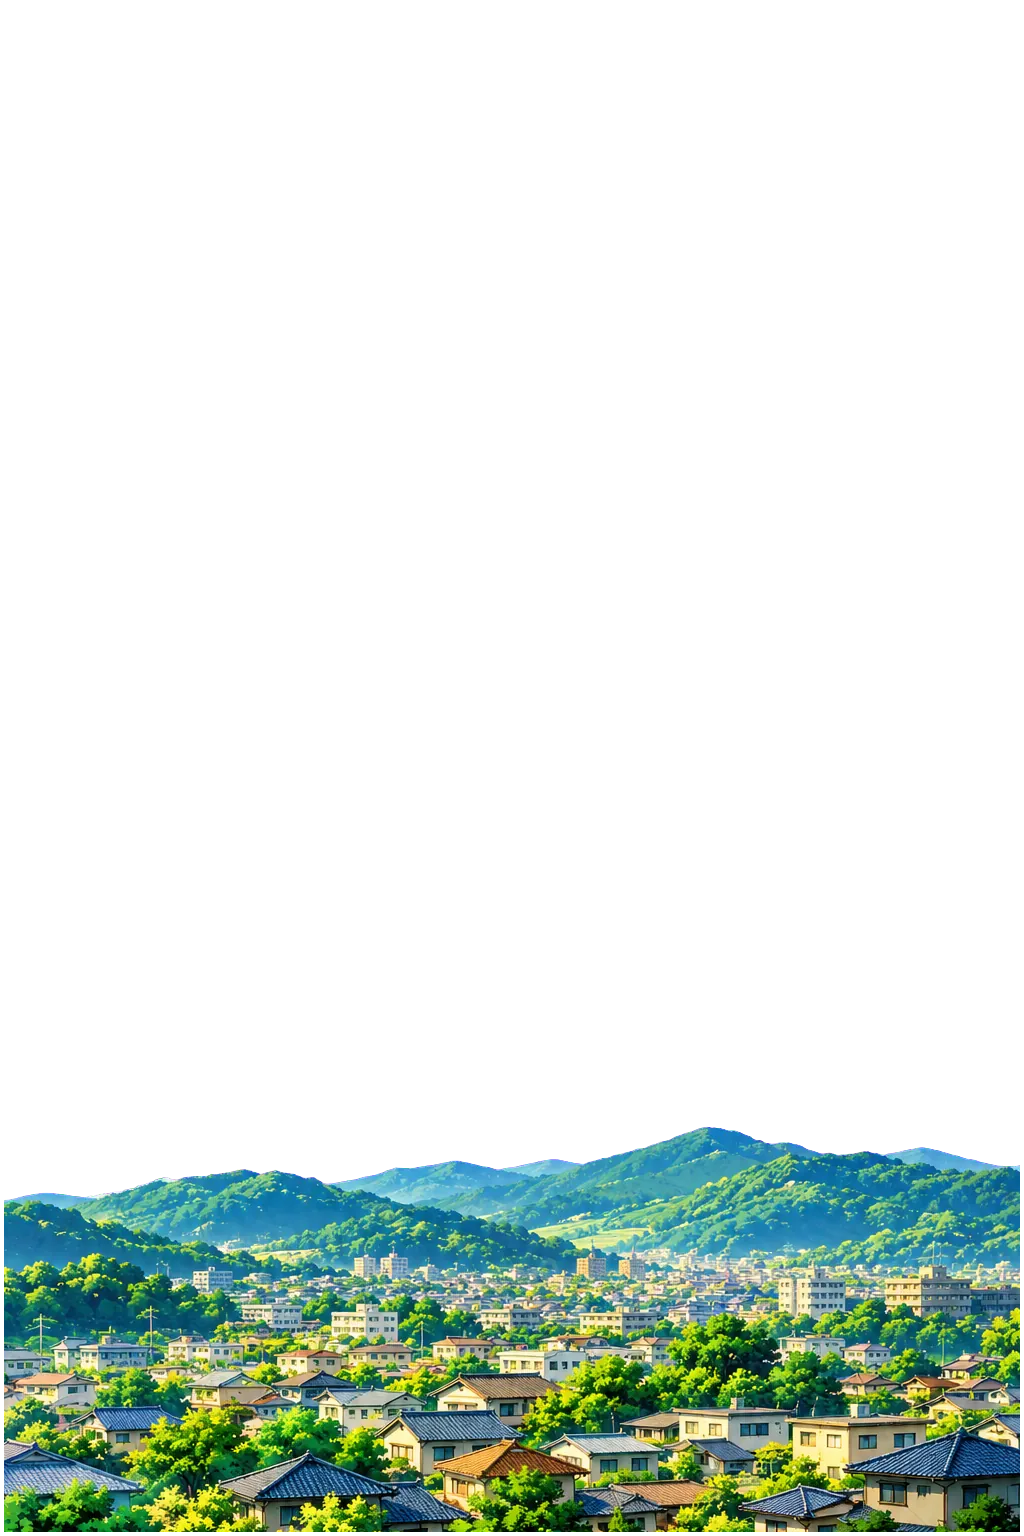
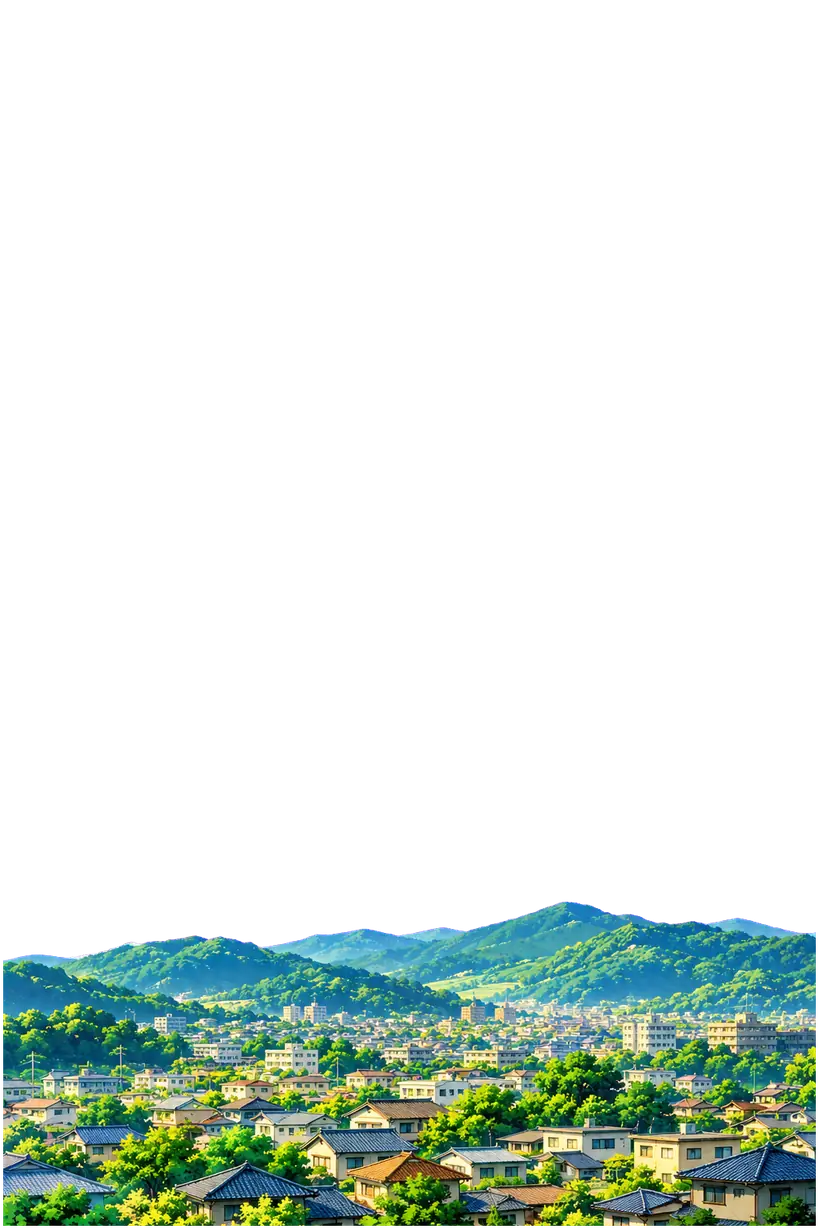
One Day: every painting in, the full day plays
All 23 paintings generated through Codex and cut in (~3 MB, 80% size):
spring hill, the train, the summer crossing and storm, golden hour by the
river, dusk town and stairway (lights on by tap and by themselves), the
winter night. Dusk and gold are pushed by cached tints; transitions render
at half resolution (worst frame 80 ms → 34 ms in headless). Docs: HANDOFF.

Claude-Session: https://claude.ai/code/session_013Z4tQkp6wMurnhSGRFwEf7

diff --git a/src/day/day.ts b/src/day/day.ts
@@ -69,10 +69,39 @@ function buffer(i: number, w: number, h: number, dpr: number) {
 }
 /** draw a scene into a buffer and return it */
 function render(g: G, i: number, scene: Scene, p: number) {
-  const dpr = Math.abs(g.ctx.getTransform().a) || 1;
+  // transitions are on screen for a moment and moving: half resolution is plenty
+  const dpr = 1;
   const b = buffer(i, g.w, g.h, dpr);
   scene({ ...g, ctx: b.g }, p);
   return b.c;
+}
+
+const tints = new Map<string, HTMLCanvasElement>();
+/** a painting pushed toward the hour, tinted once (only its own pixels) and cached */
+function tintedImg(name: string, col: string, a: number): HTMLCanvasElement | null {
+  const key = `${name}|${col}|${a}`;
+  const have = tints.get(key);
+  if (have) return have;
+  const im = img(name);
+  if (!im) return null;
+  const c = document.createElement('canvas');
+  c.width = im.naturalWidth;
+  c.height = im.naturalHeight;
+  const g = c.getContext('2d')!;
+  g.drawImage(im, 0, 0);
+  g.globalCompositeOperation = 'source-atop';
+  g.globalAlpha = a;
+  g.fillStyle = col;
+  g.fillRect(0, 0, c.width, c.height);
+  tints.set(key, c);
+  return c;
+}
+/** draw a cached tinted painting like layer() would */
+function tinted(g: G, name: string, cam: Cam, o: Parameters<typeof layer>[5], col: string, a: number) {
+  const pl = placeOf(g.w, g.h, cam, o);
+  const c = tintedImg(name, col, a);
+  if (c) g.ctx.drawImage(c, pl.x, pl.y, pl.dw, pl.dh);
+  return pl;
 }
 
 /* ================================================================ scenes */
@@ -223,10 +252,11 @@ function golden(g: G, p: number) {
   rays(ctx, sun[0], sun[1], S * 1.7, -Math.PI / 2, 2.6, 0.8, t, '255,200,140');
   flare(ctx, sun[0], sun[1], S * 0.07, 1, w, h, t);
   layer(ctx, w, h, '12_golden_far', cam, { depth: 0.3 });
-  const river = layer(ctx, w, h, '13_golden_river', cam, { depth: 0.6 });
-  const [gx0, gy0] = river.at(0.25, 0.72), [gx1, gy1] = river.at(0.78, 0.9);
+  // the river was painted in daylight: pushed to gold
+  const river = tinted(g, '13_golden_river', cam, { depth: 0.6 }, '#ff8a2a', 0.28);
+  const [gx0, gy0] = river.at(0.3, 0.56), [gx1, gy1] = river.at(0.62, 0.92);
   glitter(ctx, gx0, gy0, gx1, gy1, t, 1);
-  const maple = layer(ctx, w, h, '14_golden_maple', cam, { depth: 1 });
+  const maple = layer(ctx, w, h, '14_golden_maple', cam, { depth: 1, zoom: 0.8, ox: 0, oy: 0 });
   const fg = liveFinger(t);
   if (hash(Math.floor(t * 5) + 3) > 0.72) leaves.burst(...maple.at(0.1 + hash(t) * 0.3, 0.05 + hash(t * 3) * 0.2), S * 0.2, S * 0.05, 1);
   if (fg && Math.hypot(fg.vx, fg.vy) > S * 0.5) leaves.burst(fg.x, fg.y, fg.vx * 0.4, fg.vy * 0.4, 2);
@@ -252,11 +282,11 @@ function dusk(g: G, p: number) {
     drawSprite(ctx, glow('#fff6e0', 32), hash(i * 2.3) * w, hash(i * 5.1) * h * 0.4, S * 0.012);
   }
   ctx.restore();
-  const town = layer(ctx, w, h, '16_town_off', cam, { depth: 0.4 });
+  // the paintings came out sunlit: dusk pushes them blue-violet
+  const town = tinted(g, '16_town_off', cam, { depth: 0.4 }, '#2b2160', 0.55);
   // the lights coming on: the lit painting, cut to circles that open by themselves and where you tap
-  const dpr = Math.abs(ctx.getTransform().a) || 1;
-  const b = buffer(3, w, h, dpr);
-  layer(b.g, w, h, '17_town_on', cam, { depth: 0.4 });
+  const b = buffer(3, w, h, 1);
+  { const pl = placeOf(w, h, cam, { depth: 0.4 }); const c = tintedImg('17_town_on', '#2b2160', 0.35); if (c) b.g.drawImage(c, pl.x, pl.y, pl.dw, pl.dh); }
   b.g.globalCompositeOperation = 'destination-in';
   b.g.fillStyle = '#000';
   b.g.beginPath();
@@ -275,15 +305,17 @@ function dusk(g: G, p: number) {
   }
   if (p > 0.85) b.g.rect(0, 0, w, h * ease.in2(seg(p, 0.85, 1)) * 2);
   b.g.fill();
-  ctx.save();
-  ctx.setTransform(1, 0, 0, 1, 0, 0);
-  ctx.drawImage(b.c, 0, 0);
-  ctx.restore();
+  ctx.drawImage(b.c, 0, 0, w, h);
   // the stairway: its lamps flicker on halfway through
   const lampOn = seg(p, 0.42, 0.5);
   const flick = lampOn > 0 && lampOn < 1 ? (hash(Math.floor(t * 20)) > 0.5 ? 1 : 0.2) : lampOn;
-  const st = layer(ctx, w, h, '18_stairs_off', cam, { depth: 0.75 });
-  layer(ctx, w, h, '19_stairs_on', cam, { depth: 0.75, alpha: flick });
+  const st = tinted(g, '18_stairs_off', cam, { depth: 0.75 }, '#2b2160', 0.5);
+  if (flick > 0) {
+    ctx.save();
+    ctx.globalAlpha = flick;
+    tinted(g, '19_stairs_on', cam, { depth: 0.75 }, '#2b2160', 0.3);
+    ctx.restore();
+  }
   if (flick > 0.5) {
     ctx.save();
     ctx.globalCompositeOperation = 'lighter';
@@ -506,8 +538,5 @@ function maskBleed(ctx: CanvasRenderingContext2D, c: HTMLCanvasElement, w: numbe
   g.setTransform(1, 0, 0, 1, 0, 0);
   g.drawImage(m.c, 0, 0);
   g.restore();
-  ctx.save();
-  ctx.setTransform(1, 0, 0, 1, 0, 0);
-  ctx.drawImage(c, 0, 0);
-  ctx.restore();
+  ctx.drawImage(c, 0, 0, w, h);
 }

diff --git a/scripts/cutout-day.py b/scripts/cutout-day.py
@@ -81,8 +81,10 @@ for name in names:
             points['crossing_lamps'] = [b[:3] for b in blobs((r > 190) & (g < 80) & (b < 90), 3)]
         if name.endswith('stairs_on'):
             r, g, b = small[..., 0], small[..., 1], small[..., 2]
-            points['stair_lamps'] = [b[:3] for b in blobs((r > 235) & (g > 200) & (b < 170) & (r - b > 90), 4)]
-    out.save(f'{OUT}/{name}.webp', 'WEBP', quality=80, method=6)
+            points['stair_lamps'] = sorted([b[:3] for b in blobs((r > 235) & (g > 200) & (b < 170) & (r - b > 90), 4)], key=lambda b: -b[2])[:4]
+    # ~80% size: still sharp on a phone at 2x, and the page stays a few MB
+    out = out.resize((round(out.width * 0.8), round(out.height * 0.8)), Image.LANCZOS)
+    out.save(f'{OUT}/{name}.webp', 'WEBP', quality=74, method=6)
     print(name, out.size, os.path.getsize(f'{OUT}/{name}.webp') // 1024, 'KB')
 old = json.load(open(f'{OUT}/points.json')) if os.path.exists(f'{OUT}/points.json') else {}
 old.update(points)

diff --git a/docs/HANDOFF.md b/docs/HANDOFF.md
@@ -14,6 +14,32 @@ the owner's taste and decisions; this file is the technical side.
 
 ---
 
+
+## Current film: One Day (round 13) — read this first
+
+The film is now: the ink night you paint (`core/paint.ts`, `acts/ink.ts`),
+then **One Day** (`src/day/`): painted scenes from morning to night, the
+seasons turning, ending back on paper with the contact card. No holds
+(`HOLDS = []`); chapters in `core/frame.ts`; beats in `DAY` (`day/day.ts`).
+
+- `day/day.ts` — the timeline: scenes (spring, train, summer + rain, golden,
+  dusk, night) and the edit between them (colour bleed, window match cut,
+  tunnel, split-screen seam, dissolves, the drain to ink and paper).
+- `day/layers.ts` — paintings (`assets/day/*.webp`, inlined) as cover-fit
+  layers sharing one 1024x1536 frame; parallax by depth, tilt, push-in.
+- `day/fx.ts` — flares, light rays, motes, glitter, leaks, rain on glass,
+  rainbow, petals/leaves/snow (`Drift`), shooting stars.
+- `day/input.ts` — finger (move, hold, tap), phone tilt (iOS asks on first tap).
+- Interactions: swipe blows petals/leaves/snow; **hold stops the rain**; **tap
+  lights the town's windows** at dusk; a fast swipe throws a shooting star.
+- Art: `.claude/skills/codex-images` + `scripts/gen-art.sh` (Codex CLI on
+  the owner's ChatGPT plan) → `scripts/cutout-day.py` → `assets/day` +
+  `points.json` (train window, crossing lamps, stair lamps). The paintings for
+  the town/stairs/river came out daylit; dusk/gold are pushed by cached tints.
+- The older acts (machine, match, alter, titan, powers, sign, strip, credits,
+  meteor, hero art, hero3d) are still in `src/` but unwired; git history has
+  them working.
+
 ## 1. How the film works
 
 `index.html` has one fixed `<canvas id="film">` and a tall empty `#track`
